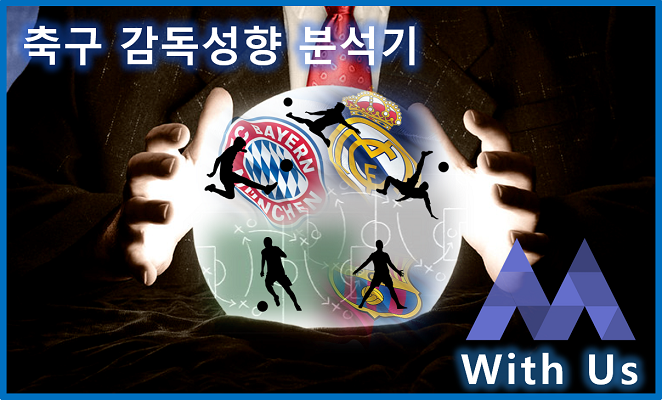
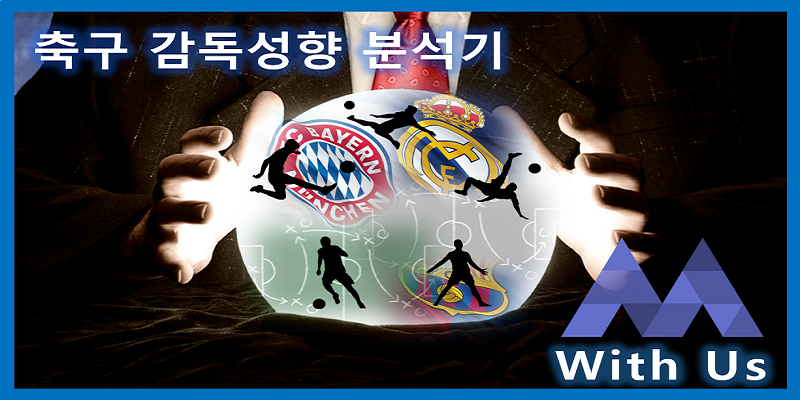
finished

diff --git a/style.css b/style.css
@@ -1,4 +1,6 @@
-.big_title{position:absolute; margin-top:145px; margin-left:170px; width:404.883px; font-size:60px; color:#fff; font-family: 'Cafe24Ohsquare';}
+.big_title{position:absolute; margin-top:145px; margin-left:170px; width:404.883px; font-size:60px; color:#81F7F3; font-family: 'Cafe24Ohsquare';}
+
+.at-share-btn-elements{margin-top:1045px; text-align:center;}
 
 .copy-right{position:absolute; color:#fff; width: 500px; margin-left:-110px;}
 
@@ -62,15 +64,15 @@ body {
 
 
 .slide9_text1{margin-top:305px; margin-left:212px; position:absolute; color:#fff; font-size:36px; font-family: 'Cafe24Ohsquare'; z-index:10;}
-.slide9_text2{margin-top:425px; margin-left:75px; position:absolute; text-align:left; color:#fff; font-size:36px; font-family:'Cafe24Ohsquare';z-index:10;}
+.slide9_text2{margin-top:425px; margin-left:135px; position:absolute; text-align:left; color:#fff; font-size:36px; font-family:'Cafe24Ohsquare';z-index:10;}
 
-p {margin-top:500px; margin-left:315px; position:absolute; text-align:left; color:#fff; font-size:26px; font-family:'Cafe24Ohsquare';z-index:10;}
+p {margin-top:500px; margin-left:375px; position:absolute; text-align:left; color:#fff; font-size:26px; font-family:'Cafe24Ohsquare';z-index:10;}
 .slide9_text4{margin-top:900px; margin-left:315px; position:absolute; text-align:left; color:#fff; font-size:25px; font-family:'Cafe24Ohsquare';z-index:10;}
 
 .slide9_text5{margin-top:950px; margin-left:315px; position:absolute; text-align:left; color:#fff; font-size:25px; font-family:'Cafe24Ohsquare';z-index:10;}
-.slide9_img_2{margin-top:270px; margin-left:75px; position:absolute; opacity: 0.8; display:block; margin-left:auto; margin-right:auto;}
+.slide9_img_2{margin-top:270px; margin-left:75px; position:absolute; opacity: 0.8;	}
 .slide9_img_1{margin-top:473px; margin-left:65px; position:absolute; max-width:300px; height:auto; z-index:10;}
-#coach_img{margin-top:473px; margin-left:30px; position:absolute; max-width:300px; height:400px; z-index:11;}
+#coach_img{margin-top:473px; margin-left:90px; position:absolute; max-width:300px; height:400px; z-index:11;}
 
 .gotoResult{
 	margin-top:120px; text-align:center; color:#fff; font-size:25px; font-family:'Cafe24Ohsquare';z-index:20; width:175%; height:30%;

diff --git a/index.html b/index.html
@@ -20,7 +20,9 @@
 		<script type="text/javascript" src="https://cdn.jsdelivr.net/npm/slick-carousel@1.8.1/slick/slick.min.js"></script>
 		<script type="text/javascript" src="main.js"></script>
 	</head>
-	
+	<!-- Go to www.addthis.com/dashboard to customize your tools -->
+	<script type="text/javascript" src="//s7.addthis.com/js/300/addthis_widget.js#pubid=ra-5ec3a054ad0914f4"></script>
+
 	<body topmargin="0"  leftmargin="0" marginwidth="0" marginheight="0" >
 		<div class="copy-right">© WithUs 2020. All Rights Reserved.</div>
 		<div class = "big_title">감독 성향 분석기</div>
@@ -174,6 +176,11 @@
 				</div>
 				<img calss="slide9_img_1" id="coach_img" src= "~" >
 				<img class="slide9_img_2" src="slide/s3.png" alt="">
+				<div>
+                <!-- Go to www.addthis.com/dashboard to customize your tools -->
+                <div class="addthis_inline_share_toolbox"></div>
+            
+				</div>
 			</div>
 			
 		</section>
